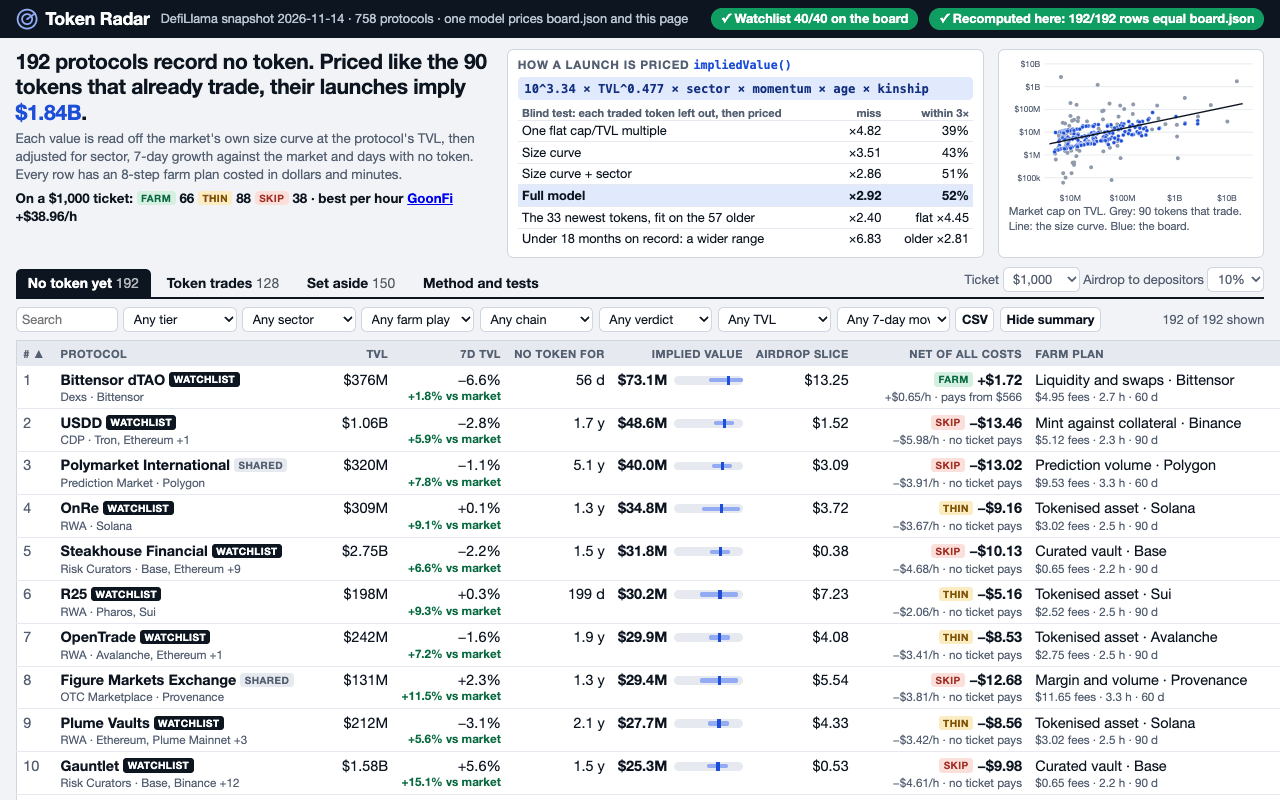
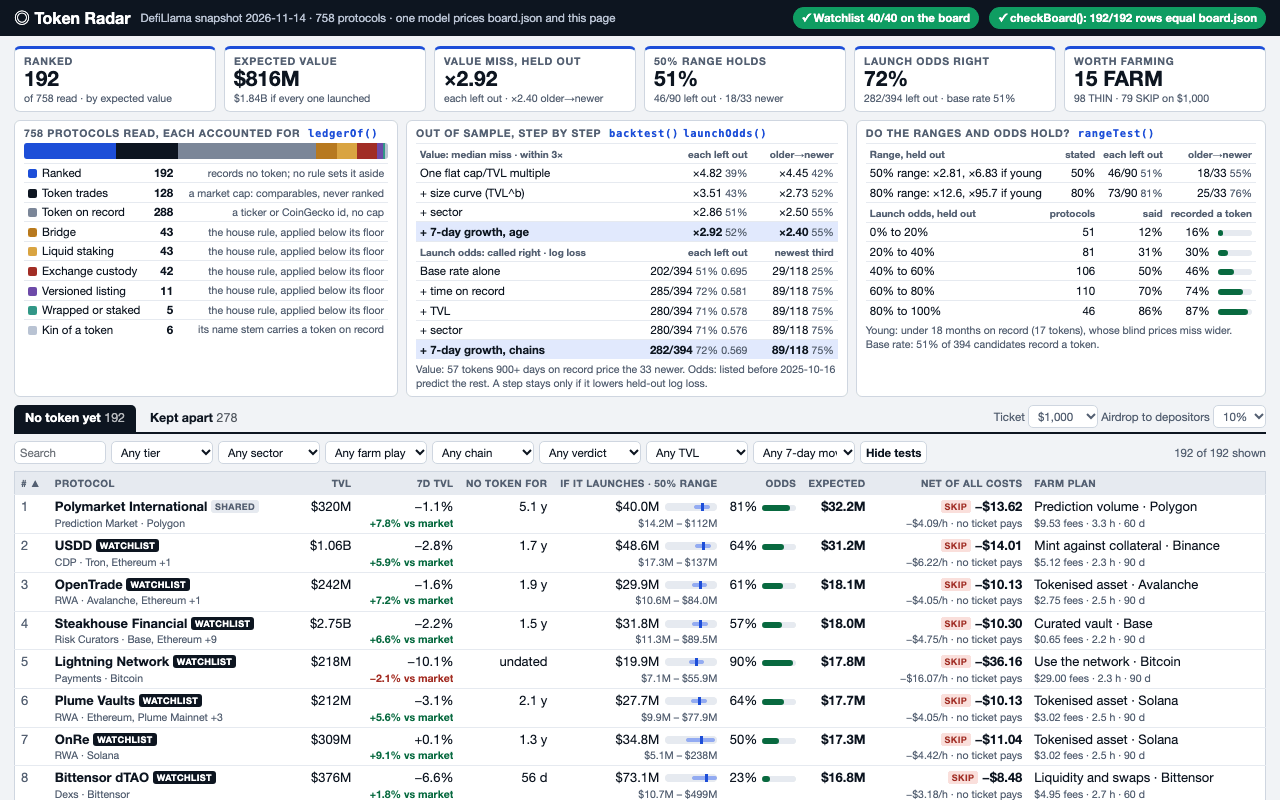
Screenshots of the KPI strip, ledger, out-of-sample panel, odds and calibration
Board and filtered view at 1280x800, the detail view of the best-ranked row worth farming
(Agni Finance, rank 26) at 1.25x so its value build, odds build and plan read at the judge's
size; all three 256-colour PNGs. A net under a cent now prints as <$0.01.

diff --git a/dashboard/1-model.js b/dashboard/1-model.js
@@ -440,7 +440,7 @@ function usd(x) {
   if (a >= 1e9) return sign + '$' + (a / 1e9).toFixed(2) + 'B';
   if (a >= 1e6) return sign + '$' + (a / 1e6).toFixed(a >= 1e8 ? 0 : 1) + 'M';
   if (a >= 1e3) return sign + '$' + Math.round(a).toString().replace(/\B(?=(\d{3})+$)/g, ',');
-  if (a > 0 && a < 0.01) return 'under $0.01';
+  if (a > 0 && a < 0.01) return sign + '<$0.01';
   return sign + '$' + a.toFixed(a >= 100 ? 0 : 2);
 }
 /** FNV-1a, so the page can prove its plan text is the text board.json carries. */
